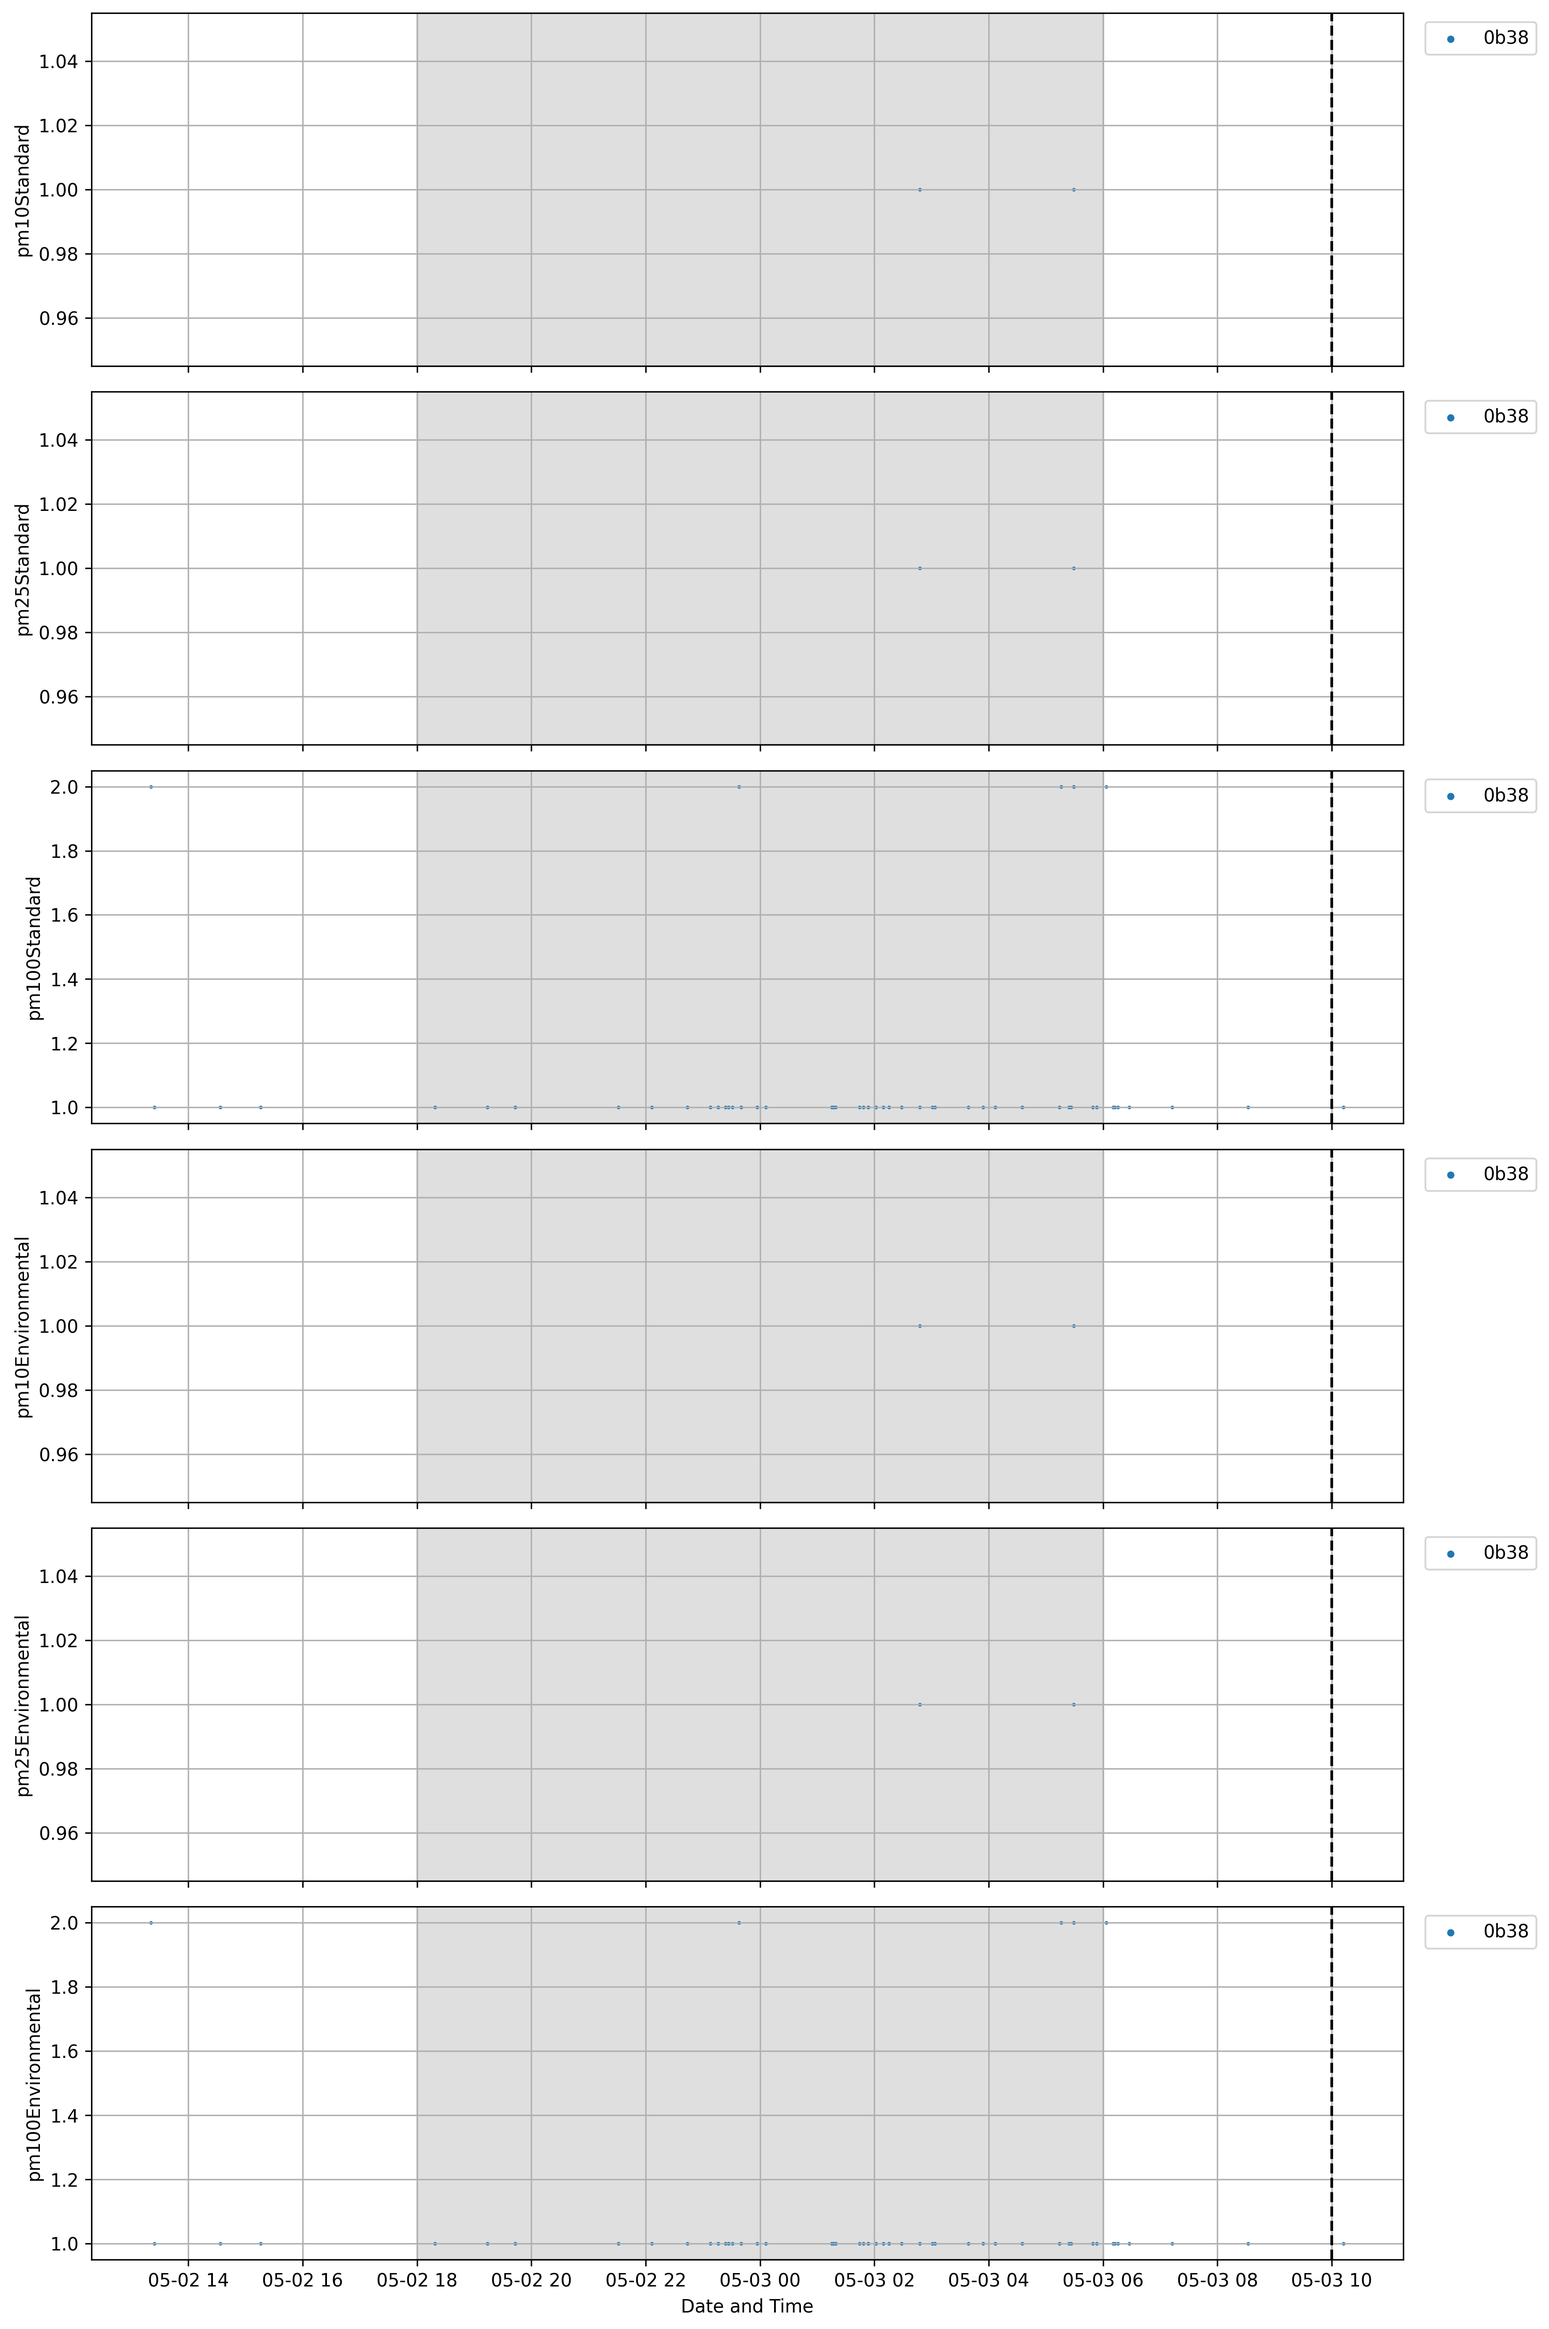
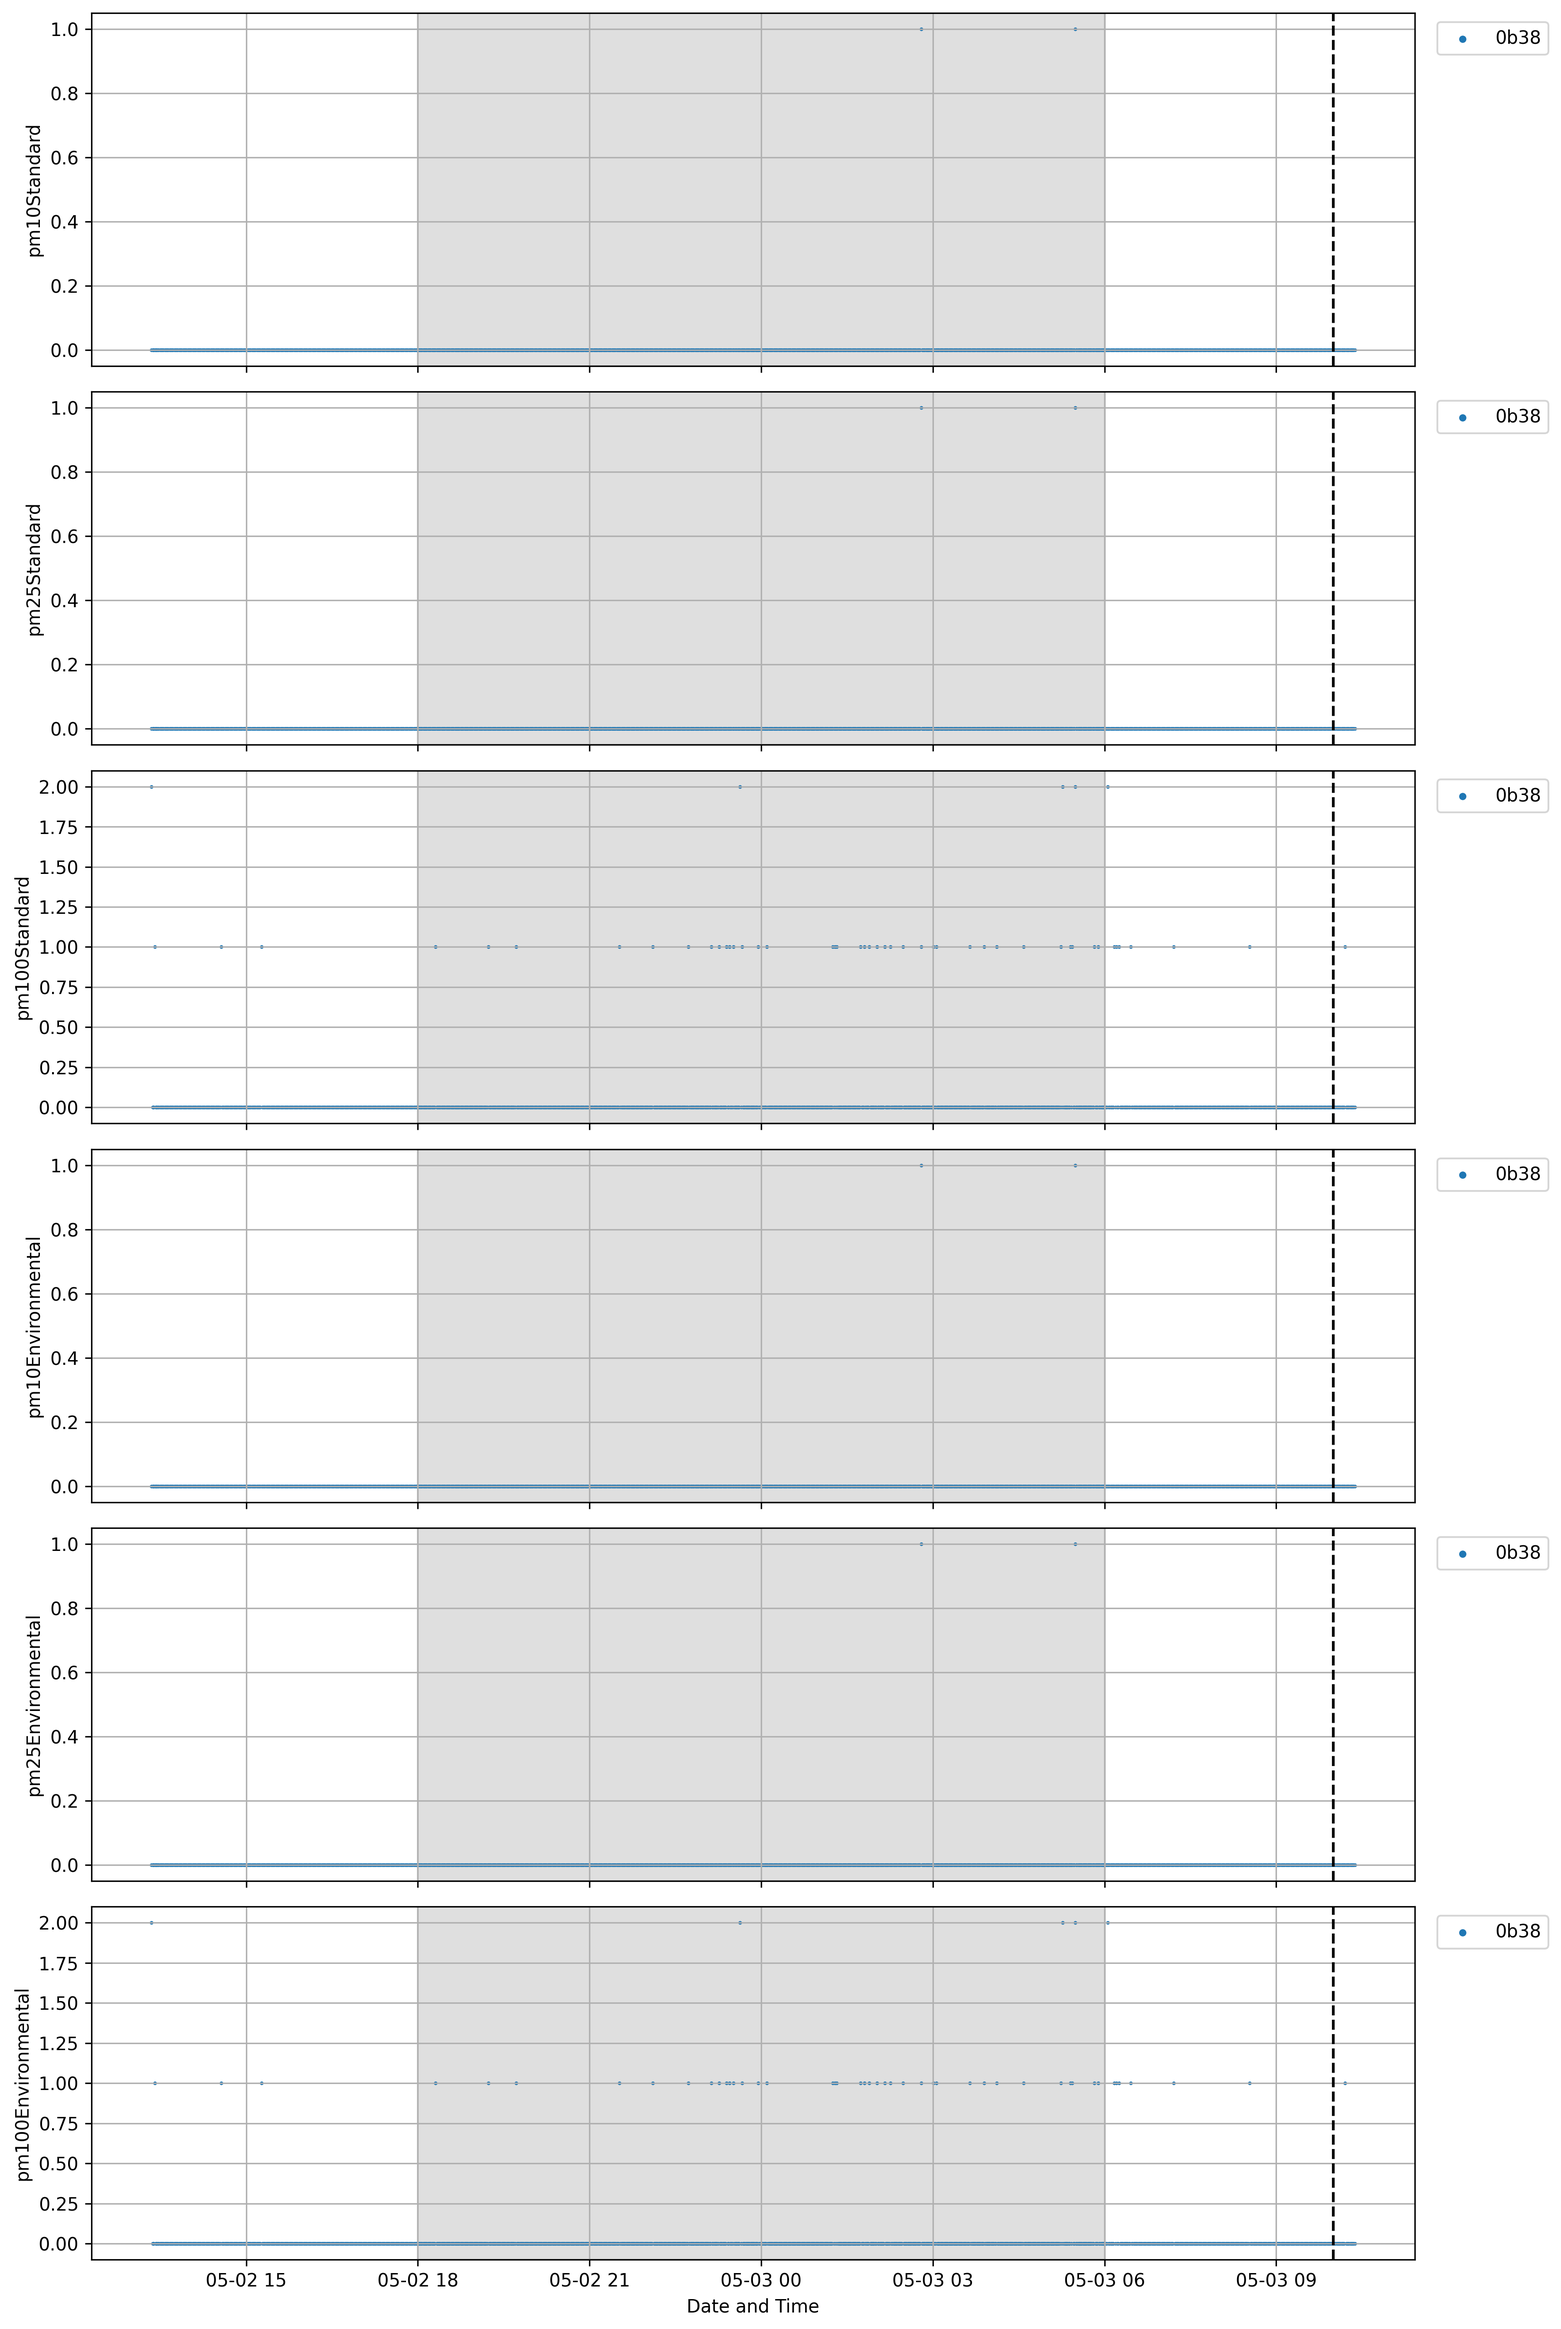
Fixed Plotting when PM is zero

diff --git a/src/data_parsing.py b/src/data_parsing.py
@@ -84,9 +84,37 @@ def read_csv_data_from_logger(config: Config, extension: str = ".csv") -> dict:
         # Include the short name out of convenience
         data_dfs[sensor]['from_short_name'] = get_short_name(data_dfs[sensor])
 
+        # Replace the empty PM data with 0
+        if sensor == "airQualityMetrics":
+            data_dfs[sensor] = fill_empty_pm_data(
+                data_dfs[sensor], header_prefix="pm")
+
         now_print("... Sensor completed!")
         
     return data_dfs
+
+
+def fill_empty_pm_data(pm_df: pd.DataFrame, header_prefix: str = "pm") -> pd.DataFrame:
+    """
+    If the PMSA measures nothing, it sends and empty string. By the time it is
+    in a dataframe, it is a NaN. This function fills the empty data with the
+    zero.
+
+    Inputs:
+        pm_df: pd.DataFrame - The dataframe to fill
+        header_prefix: str   - The prefix of the PM headers
+
+    Outputs:
+        pm_df: pd.DataFrame - The filled dataframe
+    """
+    # Get the PM headers
+    pm_headers = [header for header in pm_df.columns if header.startswith(header_prefix)]
+
+    # Fill the empty PM data with the previous values
+    for header in pm_headers:
+        pm_df[header] = pm_df[header].fillna(0)
+
+    return pm_df
 
 
 def read_radio_data_from_sensor_data(data_dfs: dict, 
